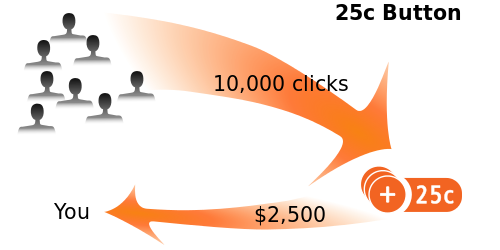
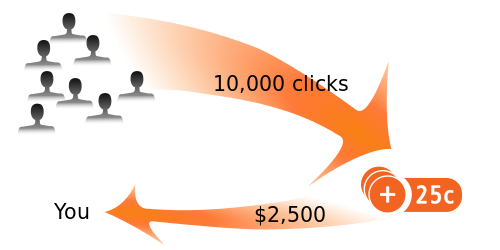
updating front page

Changed region(s): [[0.66, 0.0, 0.93, 0.084]]

diff --git a/app/assets/stylesheets/application.scss b/app/assets/stylesheets/application.scss
@@ -74,6 +74,10 @@ hr {
   color: #f26422;
 }
 
+.full-span {
+  padding-left: 20px;
+}
+
 /* Header Nav
  *---------------------------- */
 
@@ -171,83 +175,58 @@ footer.navbar #foot-copy {
 
 /* Landing Page
  *---------------------------- */
-#landing-image {
-  margin-top: 20px;
-}
-
-.splash #splash-title {
-  margin-bottom: 20px;
-}
-
-.splash #splash-buttons {
-  margin-top: 60px;
-}
-
+ 
+ .splash, .sub-splash, .main-content {
+   padding: 30px;
+   margin: 20px 0px;
+   background-color: #f6f6f6;
+   border-radius: 10px;
+   border: 1px solid #ddd;
+   -webkit-box-shadow: 0 1px 3px rgba(0, 0, 0, 0.25);
+      -moz-box-shadow: 0 1px 3px rgba(0, 0, 0, 0.25);
+           box-shadow: 0 1px 3px rgba(0, 0, 0, 0.25);
+ }
+ 
+ .main-content {
+   padding: 30px 30px 30px 10px;
+ }
+ 
 .splash #splash-graphics {
   height: 250px; 
-  width: 500px; 
+  width: 500px;
   overflow: hidden; 
   background-image: url(image_path("flow1.png"));
+  margin: 20px auto 0;
 }
 
-.splash #splash-graphics img {
-  position: relative;
+#splash-how-it-works {
+  width: 185px;
+  padding: 130px 0 0 0;
 }
 
-.splash #splash-left {
-  position: relative;
-  min-height: 270px;
+#splash-25c-button {
+  width: 205px;
+  padding: 195px 0 0 0;
+  margin-left: -20px;
 }
 
-.splash, .sub-splash, .main-content {
-  padding: 30px;
-  margin: 20px 0px;
-  background-color: #f6f6f6;
-  border-radius: 10px;
-  border: 1px solid #ddd;
-  -webkit-box-shadow: 0 1px 3px rgba(0, 0, 0, 0.25);
-     -moz-box-shadow: 0 1px 3px rgba(0, 0, 0, 0.25);
-          box-shadow: 0 1px 3px rgba(0, 0, 0, 0.25);
+h1.splash-title {
+  margin: 40px 0 10px 0;
+  color: orange;
 }
 
-.main-content {
-  padding: 30px 30px 30px 10px;
+.splash-column {
+  width: 50%;
 }
 
-.splash .fb-login-button {
-  position: relative;
-  top: 2px;
-  display: inline;
-}
-.splash > p > a.btn {
-  font-weight: 400;
+.splash-column > .lead {
+  margin-bottom: 5px;
 }
 
-.splash .or-block {
-  position: relative;
-  top: 2px;
-}
-
-#action-button {
+.splash-column > .btn {
+  margin: 0;
   width: 250px; 
   font-size: 20px;
-}
-
-.circle {
-  height: 20px; 
-  width: 20px; 
-  cursor: pointer;
-  background-image: url(image_path("circle.png"));
-}
-
-.selected-circle { 
-  cursor: auto;
-  background-position: 0px 20px;
-}
-
-.sub-splash {
-  margin-bottom: 30px;
-  padding: 20px 40px;
 }
 
 /* Login Buttons

diff --git a/app/controllers/home_controller.rb b/app/controllers/home_controller.rb
@@ -4,17 +4,13 @@ class HomeController < ApplicationController
     # redirect_to home_dashboard_path if self.current_user
     session.delete(:button_id)
     session.delete(:referrer)
-    if self.current_user
-      @button = self.current_user.buttons[0]
-      @is_demo = false
+    
+    user = self.current_user
+    
+    if user and not user.nickname.blank?
+      @profile_path = profile_path(user.nickname)
     else
-      @button = Button.new({
-        :size => "btn-large", 
-        :title => "Please super-like my page!",
-        :code_type => "javascript"
-      })
-      @button.uuid = "0123456789abcdef"
-      @is_demo = true
+      @profile_path = choose_nickname_path
     end
   end
 
